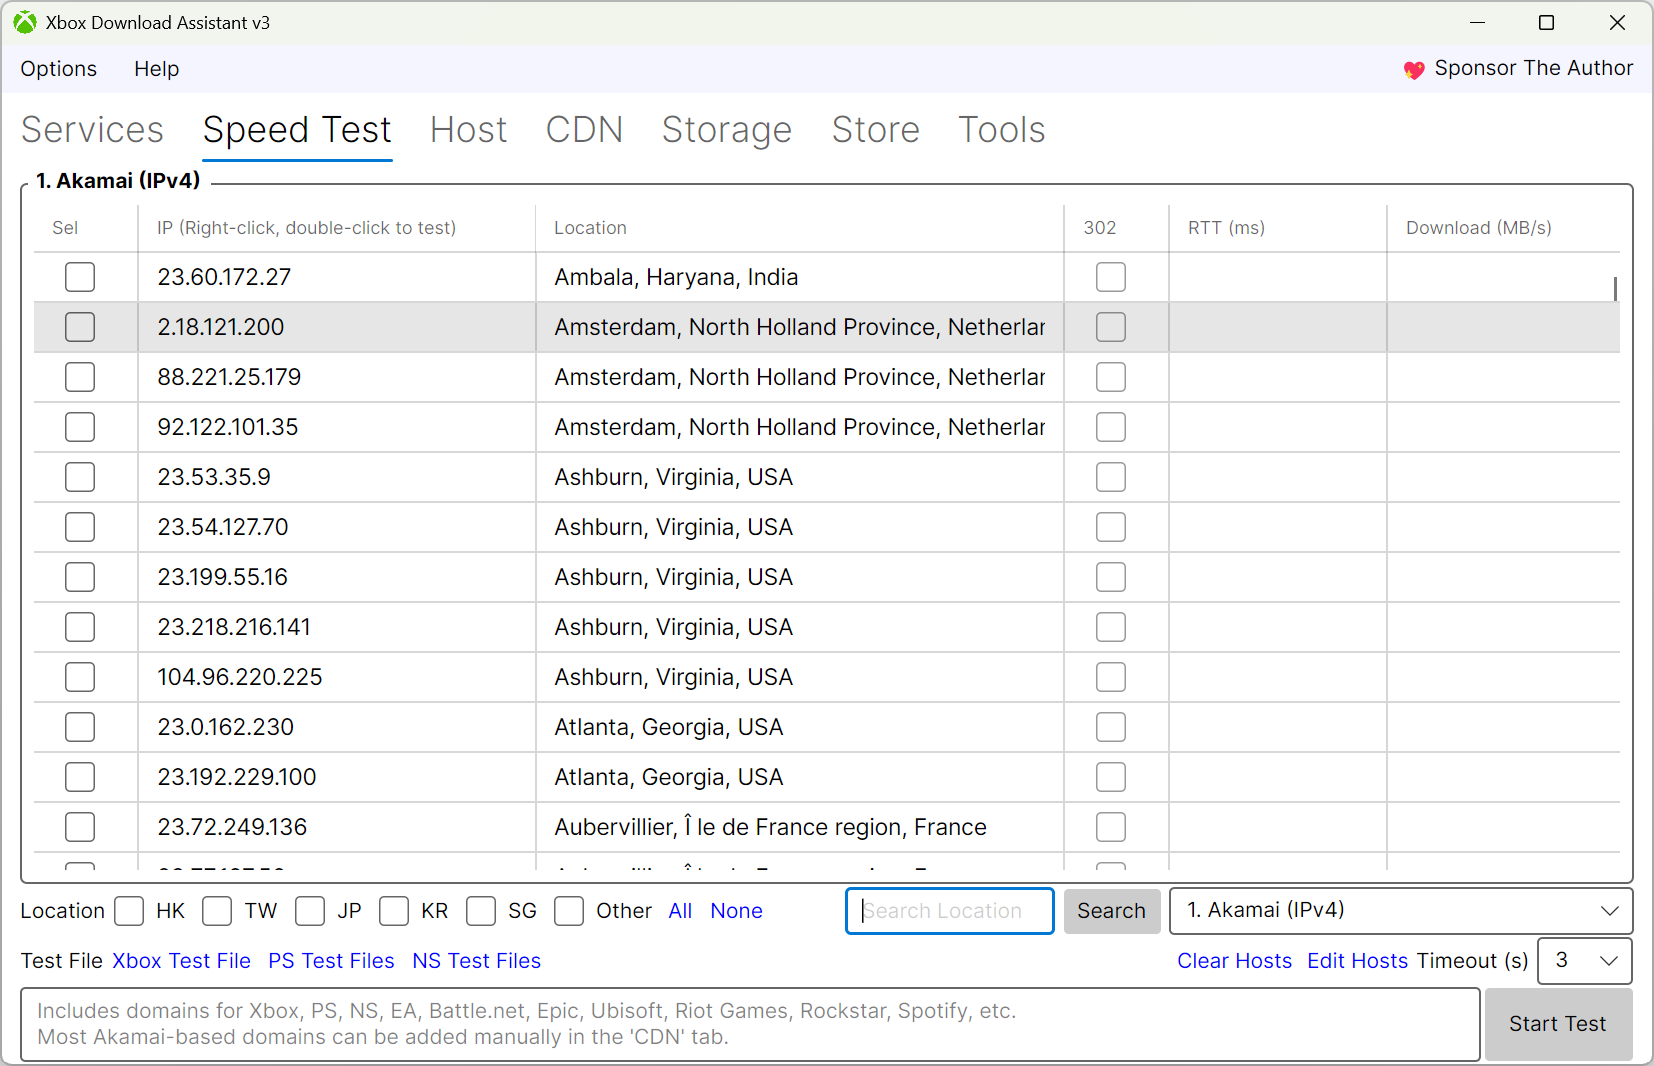
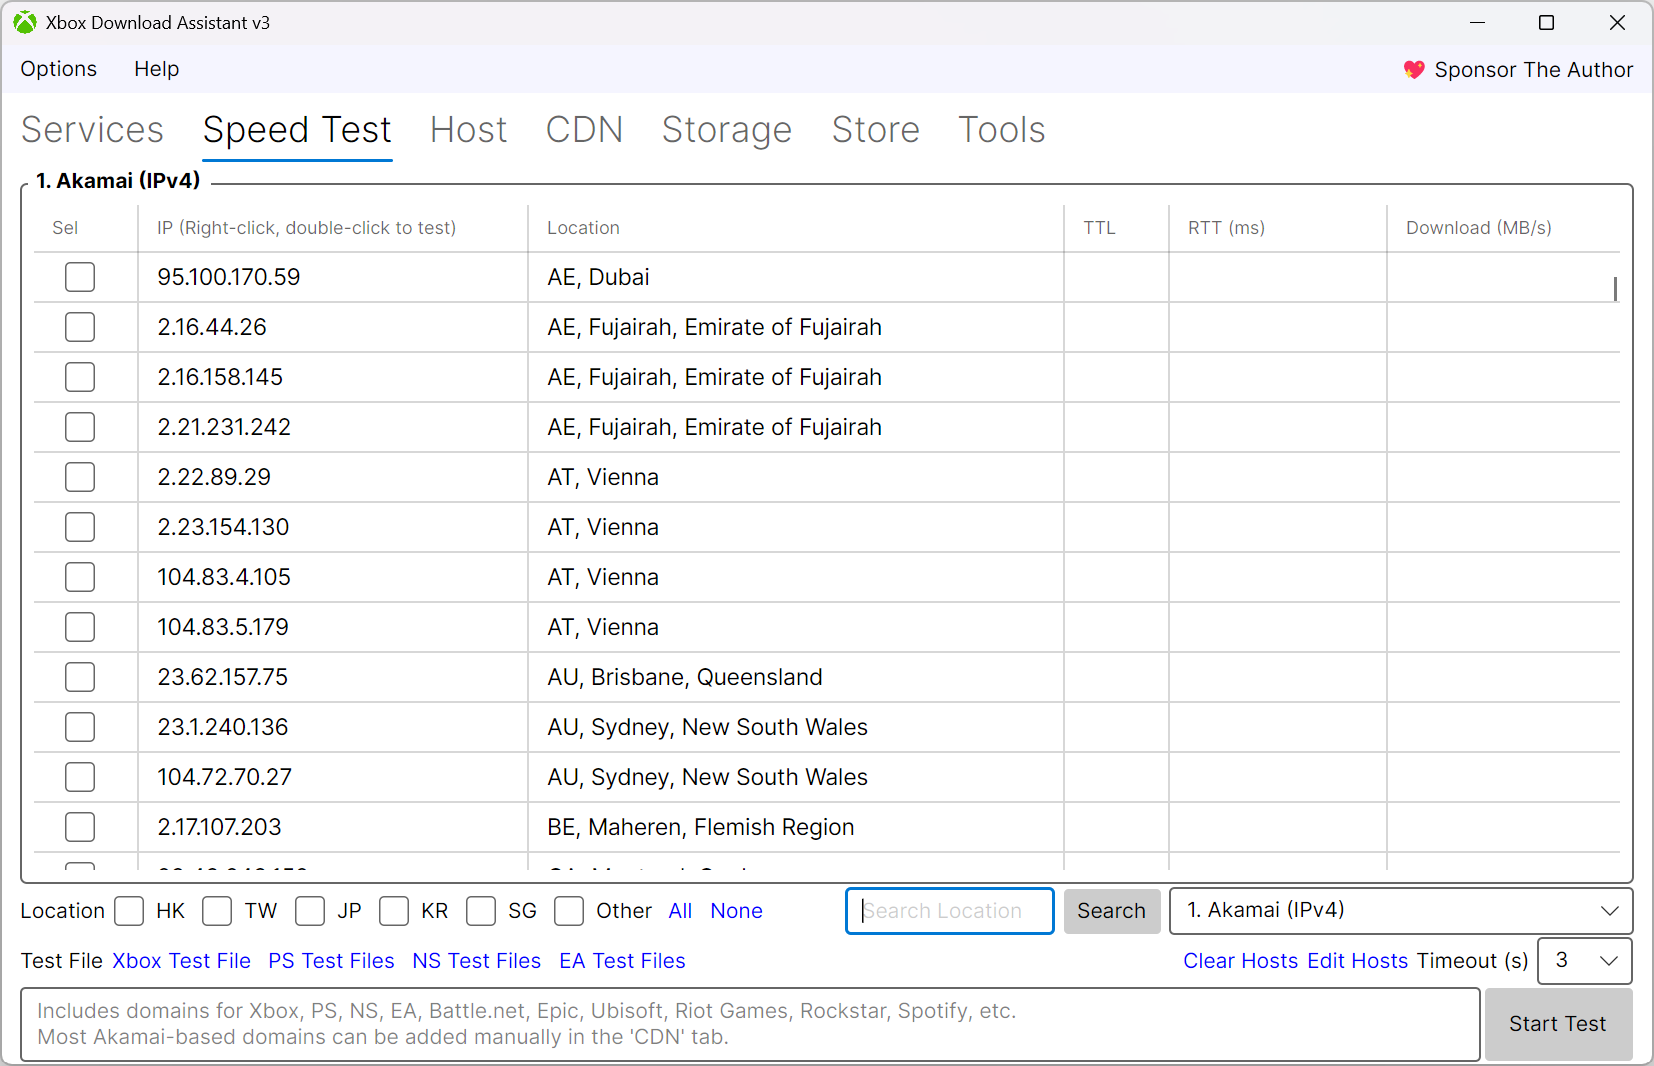
Update

diff --git a/XboxDownload/Services/SpeedTestService.cs b/XboxDownload/Services/SpeedTestService.cs
@@ -168,7 +168,6 @@ public static class SpeedTestService
 
     public static async Task PingAndTestAsync(IpItem item, Uri uri, int rangeTo, TimeSpan timeout, string userAgent, CancellationToken token)
     {
-        item.IsRedirect = false;
         item.Ttl = null;
         item.RoundtripTime = null;
         item.Speed = null;
@@ -228,9 +227,6 @@ public static class SpeedTestService
             try
             {
                 response.EnsureSuccessStatusCode();
-
-                if (!Equals(response.RequestMessage?.RequestUri, uri))
-                    item.IsRedirect = true;
 
                 await using var stream = await response.Content.ReadAsStreamAsync(cts.Token);
 

diff --git a/XboxDownload/Models/SpeedTest/SpeedTestModels.cs b/XboxDownload/Models/SpeedTest/SpeedTestModels.cs
@@ -80,9 +80,6 @@ public partial class IpItem : ObservableObject
     private string _location = string.Empty;
 
     [ObservableProperty]
-    private bool _isRedirect;
-
-    [ObservableProperty]
     private int? _ttl;
 
     [ObservableProperty]
